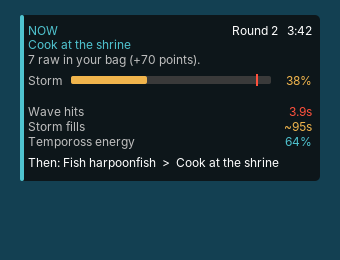
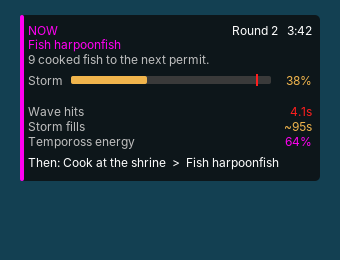
Theoatrix mass run for Max permits and Max points, Imcando reminder, new colours
Claude-Session: https://claude.ai/code/session_01GWEV1EgXFJ7qzk45G8MbbB

diff --git a/src/main/java/com/toadfx/temporossautopilot/logic/Planner.java b/src/main/java/com/toadfx/temporossautopilot/logic/Planner.java
@@ -96,6 +96,11 @@ public final class Planner
 			{
 				return better;
 			}
+			Instruction hammer = imcando(s);
+			if (hammer != null)
+			{
+				return hammer;
+			}
 			Instruction outfit = outfit(s);
 			if (outfit != null)
 			{
@@ -103,6 +108,16 @@ public final class Planner
 			}
 		}
 		return null;
+	}
+
+	/** A reminder to bring the Imcando hammer if you own it and didn't bring it, or null. */
+	static Instruction imcando(Snapshot s)
+	{
+		if (!s.ownsImcando || s.carriesImcando)
+		{
+			return null;
+		}
+		return Instruction.of("Bring your Imcando hammer", "Waves and fires can't take it, and it goes in your off-hand.", Target.NONE);
 	}
 
 	// --------------------------------------------------------------------- your own gear
@@ -196,6 +211,10 @@ public final class Planner
 		{
 			out.add(h.getTitle().replace("Bring your ", "your "));
 		}
+		if (imcando(s) != null)
+		{
+			out.add("your Imcando hammer");
+		}
 		Instruction o = outfit(s);
 		if (o != null)
 		{
@@ -222,9 +241,11 @@ public final class Planner
 			case CHILL:
 				return "Aim for 2,000 points, then take it easy.";
 			case FIREFIGHTER:
-				return "Fish and cook, and put out every fire you can.";
+				return "Fish and cook, and put out every fire you can. Humidify refills buckets.";
 			case MAX_POINTS:
-				return "Cook everything and aim for " + String.format("%,d", set.pointsTarget) + " points.";
+				return "Catch 8 and cook them while you wait for a double spot. Aim for " + String.format("%,d", set.pointsTarget) + " points.";
+			case MAX_PERMITS:
+				return "Catch 9 at the nearest spot and cook them, then fill up at a double spot.";
 			default:
 				return set.mode == GameMode.MASS ? "Head for a fishing spot when the game starts." : "Start fishing as soon as you land.";
 		}
@@ -455,6 +476,11 @@ public final class Planner
 		if (cook == CookRule.BATCH)
 		{
 			return PlannerSettings.batchSize(s.fishingLevel);
+		}
+		if (cook == CookRule.OPENER_THEN_FULL_BAG)
+		{
+			// Opening batch while waiting for a double; after that, only a full bag gets cooked.
+			return s.cooked + s.crystal == 0 ? set.style.openingBatch() : Integer.MAX_VALUE;
 		}
 		// Always-cook styles: cook in batches too, so you aren't walking back after every fish.
 		return PlannerSettings.batchSize(s.fishingLevel);

diff --git a/src/main/java/com/toadfx/temporossautopilot/model/PlayStyle.java b/src/main/java/com/toadfx/temporossautopilot/model/PlayStyle.java
@@ -6,11 +6,11 @@ package com.toadfx.temporossautopilot.model;
  */
 public enum PlayStyle
 {
-	MAX_PERMITS("Max permits / hr", "Fast games, more rewards per hour", CookRule.ALWAYS, "permits per hour"),
-	MAX_POINTS("Max points / game", "Long rounds, most permits per game", CookRule.ALWAYS, "points per game"),
-	MAX_XP("Max Fishing XP", "Never cook, just fish", CookRule.NEVER, "Fishing XP per hour"),
-	BALANCED("Balanced XP + permits", "The wiki cooking method", CookRule.BATCH, "XP and permits together"),
-	FIREFIGHTER("Firefighter", "Douse and repair for bonus points", CookRule.ALWAYS, "points per game"),
+	MAX_PERMITS("Max permits / hr", "Theoatrix mass run: catch 9, cook, fill up at doubles, load a full bag", CookRule.OPENER_THEN_FULL_BAG, "permits per hour"),
+	MAX_POINTS("Max points / game", "Theoatrix max points: catch 8, cook while you wait for a double, fill up there", CookRule.OPENER_THEN_FULL_BAG, "points per game"),
+	MAX_XP("Max Fishing XP", "Theoatrix XP: never cook, crystal harpoon, spirit angler outfit", CookRule.NEVER, "Fishing XP per hour"),
+	BALANCED("Balanced XP + permits", "The wiki cooking method: 7 at a time (9 at 85+)", CookRule.BATCH, "XP and permits together"),
+	FIREFIGHTER("Firefighter", "Douse fires and fix masts for 40 points each (Humidify helps)", CookRule.ALWAYS, "points per game"),
 	CHILL("Chill: one permit", "Least clicking for 1 reward", CookRule.NEVER, "reaching 2,000 points"),
 	CUSTOM("Custom", "Your own rules from settings", CookRule.ALWAYS, "your points target");
 
@@ -46,6 +46,12 @@ public enum PlayStyle
 	public String getGradedOn()
 	{
 		return gradedOn;
+	}
+
+	/** Fish to catch and cook first, before filling the bag (Theoatrix: 9 on mass worlds, about 8 for max points). */
+	public int openingBatch()
+	{
+		return this == MAX_POINTS ? 8 : 9;
 	}
 
 	/** Styles that go out of their way to douse fires and repair masts and totems. */

diff --git a/src/main/java/com/toadfx/temporossautopilot/TemporossAutopilotConfig.java b/src/main/java/com/toadfx/temporossautopilot/TemporossAutopilotConfig.java
@@ -210,17 +210,17 @@ public interface TemporossAutopilotConfig extends Config
 	// ------------------------------------------------------------------ colours
 
 	@Alpha
-	@ConfigItem(keyName = "targetColor", name = "Target", position = 0, section = colourSection, description = "Next target outline")
+	@ConfigItem(keyName = "targetColor", name = "Target", position = 0, section = colourSection, description = "Next step: the outline on what to do next and the step text")
 	default Color targetColor()
 	{
-		return new Color(79, 195, 207);
+		return new Color(255, 0, 241);
 	}
 
 	@Alpha
 	@ConfigItem(keyName = "doubleColor", name = "Double spot", position = 1, section = colourSection, description = "Double spot outline")
 	default Color doubleColor()
 	{
-		return new Color(255, 105, 180);
+		return new Color(255, 115, 0);
 	}
 
 	@Alpha
@@ -234,7 +234,7 @@ public interface TemporossAutopilotConfig extends Config
 	@ConfigItem(keyName = "urgentColor", name = "Urgent", position = 3, section = colourSection, description = "Colour for urgent steps (waves, storm)")
 	default Color urgentColor()
 	{
-		return new Color(255, 80, 60);
+		return new Color(255, 30, 30);
 	}
 
 	// ------------------------------------------------------------------ alerts

diff --git a/src/main/java/com/toadfx/temporossautopilot/state/GameTracker.java b/src/main/java/com/toadfx/temporossautopilot/state/GameTracker.java
@@ -525,6 +525,7 @@ public class GameTracker
 				}
 				harpoon |= Ids.HARPOONS.contains(id);
 				hammer |= Ids.HAMMERS.contains(id);
+				s.carriesImcando |= id == net.runelite.api.gameval.ItemID.IMCANDO_HAMMER;
 				s.carriedHarpoon = Harpoon.best(s.carriedHarpoon, Harpoon.of(id), com.toadfx.temporossautopilot.model.PlayStyle.MAX_PERMITS);
 			}
 		}
@@ -536,6 +537,7 @@ public class GameTracker
 				int id = it.getId();
 				harpoon |= Ids.HARPOONS.contains(id);
 				hammer |= Ids.HAMMERS.contains(id);
+				s.carriesImcando |= id == net.runelite.api.gameval.ItemID.IMCANDO_HAMMER;
 				s.carriedHarpoon = Harpoon.best(s.carriedHarpoon, Harpoon.of(id), com.toadfx.temporossautopilot.model.PlayStyle.MAX_PERMITS);
 				for (int i = 0; i < 4; i++)
 				{
@@ -556,6 +558,7 @@ public class GameTracker
 			s.ownsSpirit[i] = gear.owns(GearMemory.SPIRIT_ANGLER[i]);
 			s.ownsAngler[i] = gear.owns(GearMemory.ANGLER[i]);
 		}
+		s.ownsImcando = gear.owns(net.runelite.api.gameval.ItemID.IMCANDO_HAMMER);
 		for (int id : gear.getOwned())
 		{
 			Harpoon h = Harpoon.of(id);

diff --git a/src/main/java/com/toadfx/temporossautopilot/ui/TemporossAutopilotPanel.java b/src/main/java/com/toadfx/temporossautopilot/ui/TemporossAutopilotPanel.java
@@ -46,6 +46,7 @@ public class TemporossAutopilotPanel extends PluginPanel
 	private static final int HISTORY_ROWS = 8;
 
 	private final TemporossAutopilotPlugin plugin;
+	private final TemporossAutopilotConfig config;
 	private final ConfigManager configManager;
 
 	private final JComboBox<PlayStyle> styleBox = new JComboBox<>(PlayStyle.values());
@@ -65,6 +66,7 @@ public class TemporossAutopilotPanel extends PluginPanel
 	{
 		super(true);
 		this.plugin = plugin;
+		this.config = config;
 		this.configManager = configManager;
 
 		setLayout(new BorderLayout());
@@ -188,7 +190,7 @@ public class TemporossAutopilotPanel extends PluginPanel
 		else
 		{
 			stepTitle.setText(step.getTitle());
-			stepTitle.setForeground(step.getUrgency() == Urgency.NOW ? NOW : step.getUrgency() == Urgency.SOON ? GOLD : ACCENT);
+			stepTitle.setForeground(step.getUrgency() == Urgency.NOW ? config.urgentColor() : step.getUrgency() == Urgency.SOON ? GOLD : config.targetColor());
 			String then = "";
 			for (Instruction next : plugin.getUpcoming())
 			{

diff --git a/src/test/java/com/toadfx/temporossautopilot/PlannerTest.java b/src/test/java/com/toadfx/temporossautopilot/PlannerTest.java
@@ -84,6 +84,33 @@ public class PlannerTest
 	}
 
 	@Test
+	public void theoatrixMassRunCooksOpenerThenFullBag()
+	{
+		PlannerSettings p = style(PlayStyle.MAX_PERMITS);
+		Snapshot s = energy();
+		s.raw = 8;
+		s.freeSlots = 20;
+		assertEquals("Opener is 9", Target.FISHING_SPOT, Planner.plan(s, p).getTarget());
+		s.raw = 9;
+		s.freeSlots = 19;
+		assertEquals(Target.SHRINE, Planner.plan(s, p).getTarget());
+		s.raw = 10;
+		s.cooked = 9;
+		s.freeSlots = 9;
+		assertEquals(Target.FISHING_SPOT, Planner.plan(s, p).getTarget());
+		s.raw = 19;
+		s.freeSlots = 0;
+		assertEquals(Target.SHRINE, Planner.plan(s, p).getTarget());
+		s.raw = 0;
+		s.cooked = 28;
+		assertEquals(Target.CRATE, Planner.plan(s, p).getTarget());
+		Snapshot m = energy();
+		m.raw = 8;
+		m.freeSlots = 20;
+		assertEquals(Target.SHRINE, Planner.plan(m, style(PlayStyle.MAX_POINTS)).getTarget());
+	}
+
+	@Test
 	public void xpStyleNeverCooks()
 	{
 		Snapshot s = energy();

diff --git a/src/main/java/com/toadfx/temporossautopilot/logic/Snapshot.java b/src/main/java/com/toadfx/temporossautopilot/logic/Snapshot.java
@@ -38,6 +38,8 @@ public class Snapshot
 	public boolean[] ownsAngler = new boolean[4];
 	public boolean[] wearsSpirit = new boolean[4];
 	public boolean[] wearsAngler = new boolean[4];
+	public boolean ownsImcando;
+	public boolean carriesImcando;
 
 	// Scene
 	public boolean waveIncoming;
@@ -73,6 +75,7 @@ public class Snapshot
 		c.ownedHarpoons = ownedHarpoons.isEmpty() ? EnumSet.noneOf(Harpoon.class) : EnumSet.copyOf(ownedHarpoons);
 		c.ownsSpirit = ownsSpirit.clone(); c.ownsAngler = ownsAngler.clone();
 		c.wearsSpirit = wearsSpirit.clone(); c.wearsAngler = wearsAngler.clone();
+		c.ownsImcando = ownsImcando; c.carriesImcando = carriesImcando;
 		c.waveIncoming = waveIncoming; c.tethered = tethered; c.doubleSpot = doubleSpot;
 		c.spiritPool = spiritPool; c.poolInactive = poolInactive;
 		c.fireDistance = fireDistance; c.damagedTetherDistance = damagedTetherDistance;

diff --git a/src/main/java/com/toadfx/temporossautopilot/model/CookRule.java b/src/main/java/com/toadfx/temporossautopilot/model/CookRule.java
@@ -8,7 +8,12 @@ public enum CookRule
 	/** Never cook: fish and load raw. */
 	NEVER("Never"),
 	/** The wiki cooking method: catch a batch (7, or 9 at 85+ Fishing), then cook it. */
-	BATCH("In batches");
+	BATCH("In batches"),
+	/**
+	 * Theoatrix's way: cook an opening batch (8-9 fish) while waiting for a double spot, then fill
+	 * the bag (at doubles when you can), cook it all and load a full bag of cooked fish.
+	 */
+	OPENER_THEN_FULL_BAG("Opener, then full bag");
 
 	private final String label;
 

diff --git a/src/test/java/com/toadfx/temporossautopilot/GearTest.java b/src/test/java/com/toadfx/temporossautopilot/GearTest.java
@@ -100,6 +100,16 @@ public class GearTest
 	}
 
 	@Test
+	public void remindsImcandoHammer()
+	{
+		Snapshot s = boat();
+		s.ownsImcando = true;
+		assertEquals("Bring your Imcando hammer", Planner.plan(s, style(PlayStyle.MAX_POINTS)).getTitle());
+		s.carriesImcando = true;
+		assertEquals("Ready", Planner.plan(s, style(PlayStyle.MAX_POINTS)).getTitle());
+	}
+
+	@Test
 	public void remindersCanBeTurnedOff()
 	{
 		Snapshot s = boat();

diff --git a/src/main/java/com/toadfx/temporossautopilot/state/GearMemory.java b/src/main/java/com/toadfx/temporossautopilot/state/GearMemory.java
@@ -25,7 +25,7 @@ public class GearMemory
 
 	public static boolean tracked(int id)
 	{
-		return Ids.HARPOONS.contains(id) || contains(ANGLER, id) || contains(SPIRIT_ANGLER, id);
+		return Ids.HARPOONS.contains(id) || contains(ANGLER, id) || contains(SPIRIT_ANGLER, id) || id == ItemID.IMCANDO_HAMMER;
 	}
 
 	/** Items carried or worn: always owned. */

diff --git a/src/main/java/com/toadfx/temporossautopilot/logic/Lookahead.java b/src/main/java/com/toadfx/temporossautopilot/logic/Lookahead.java
@@ -68,6 +68,10 @@ public final class Lookahead
 				{
 					want = s.freeSlots;
 				}
+				else if (cook == CookRule.OPENER_THEN_FULL_BAG)
+				{
+					want = s.cooked + s.crystal == 0 ? Math.max(1, set.style.openingBatch() - s.raw) : s.freeSlots;
+				}
 				else
 				{
 					want = Math.max(1, PlannerSettings.batchSize(s.fishingLevel) - s.raw);

diff --git a/README.md b/README.md
@@ -14,11 +14,11 @@ highlights and your post-game grade all follow it.
 
 | Style | Cooking | What Autopilot does | Graded on |
 |---|---|---|---|
-| **Max permits / hr** (default) | Yes | Load as soon as you have fish, finish him fast, leave right away | permits per hour |
-| **Max points / game** | Always | Cook everything, douse fires, fix masts, counts down to your points target | points per game |
-| **Max Fishing XP** | Never | Double spots first, then the spirit pool; loads raw only when the bag is full | Fishing XP per hour |
+| **Max permits / hr** (default) | Opener, then full bag | Theoatrix's mass run: catch 9 at the nearest spot and cook them, fill up at a double spot, cook it all, load a full bag, fish until he's down, then the spirit pool. Leave right away after the win | permits per hour |
+| **Max points / game** | Opener, then full bag | Theoatrix's max points: catch about 8 and cook them while you wait for a double spot, fill up there, load a full bag; also douses fires and fixes masts, counting down to your points target | points per game |
+| **Max Fishing XP** | Never | Theoatrix's XP setup (crystal harpoon, spirit angler outfit, Imcando hammer): double spots first, then the spirit pool; loads raw only when the bag is full | Fishing XP per hour |
 | **Balanced XP + permits** | In batches | The wiki cooking method: catch 7 (9 at 85+), cook, start loading at 49% energy | XP and permits |
-| **Firefighter** | Yes | Puts out every fire and repairs every mast (40 points each) | points per game |
+| **Firefighter** | Yes | Puts out every fire and repairs every mast (40 points each); Humidify keeps your buckets full | points per game |
 | **Chill: one permit** | No | Gets you to 2,000 points, then tells you you're safe | reaching 2,000 |
 | **Custom** | Your choice | Your own cooking rule and points target | your target |
 
@@ -49,7 +49,7 @@ highlights and your post-game grade all follow it.
 - **Gear reminders**: remembers the harpoons and angler / spirit angler pieces you own (from your
   bank, inventory and worn items) and reminds you to bring them: your best harpoon for your play style
   (infernal for points, crystal for Fishing XP, dragon for its +3 special) and the outfit
-  (the full set gives +2.5% Fishing XP). You also get one chat reminder when you reach the Ruins of Unkah.
+  (the full set gives +2.5% Fishing XP), plus the Imcando hammer, which waves and fires can't take. You also get one chat reminder when you reach the Ruins of Unkah.
 - **Alerts**: wave incoming (when you aren't tethered), double spot, storm warning, load target
   reached, new permit.
 - **Post-game report card**: S to D grade for your play style, a points breakdown (loading,
@@ -68,10 +68,15 @@ highlights and your post-game grade all follow it.
 | Alerts | Each alert on or off, storm warning level |
 | Report card | Chat summary, save history, reset history |
 
+## Colours
+
+Defaults: next step magenta `#FF00F1`, double spot orange `#FF7300`, urgent red `#FF1E1E`. All can be changed in Colours.
+
 ## Credits
 
 Strategy, points and permit numbers come from the
-[OSRS Wiki Tempoross pages](https://oldschool.runescape.wiki/w/Tempoross/Strategies).
+[OSRS Wiki Tempoross pages](https://oldschool.runescape.wiki/w/Tempoross/Strategies). The mass-world run
+and the max points and XP setups follow [Theoatrix's Tempoross guide](https://www.theoatrix.net/post/osrs-tempoross-guide-1).
 Game IDs come from RuneLite's gameval API. See [NOTICE](NOTICE).
 
 Tempoross Autopilot never clicks or plays for you. It only shows information, highlights and
